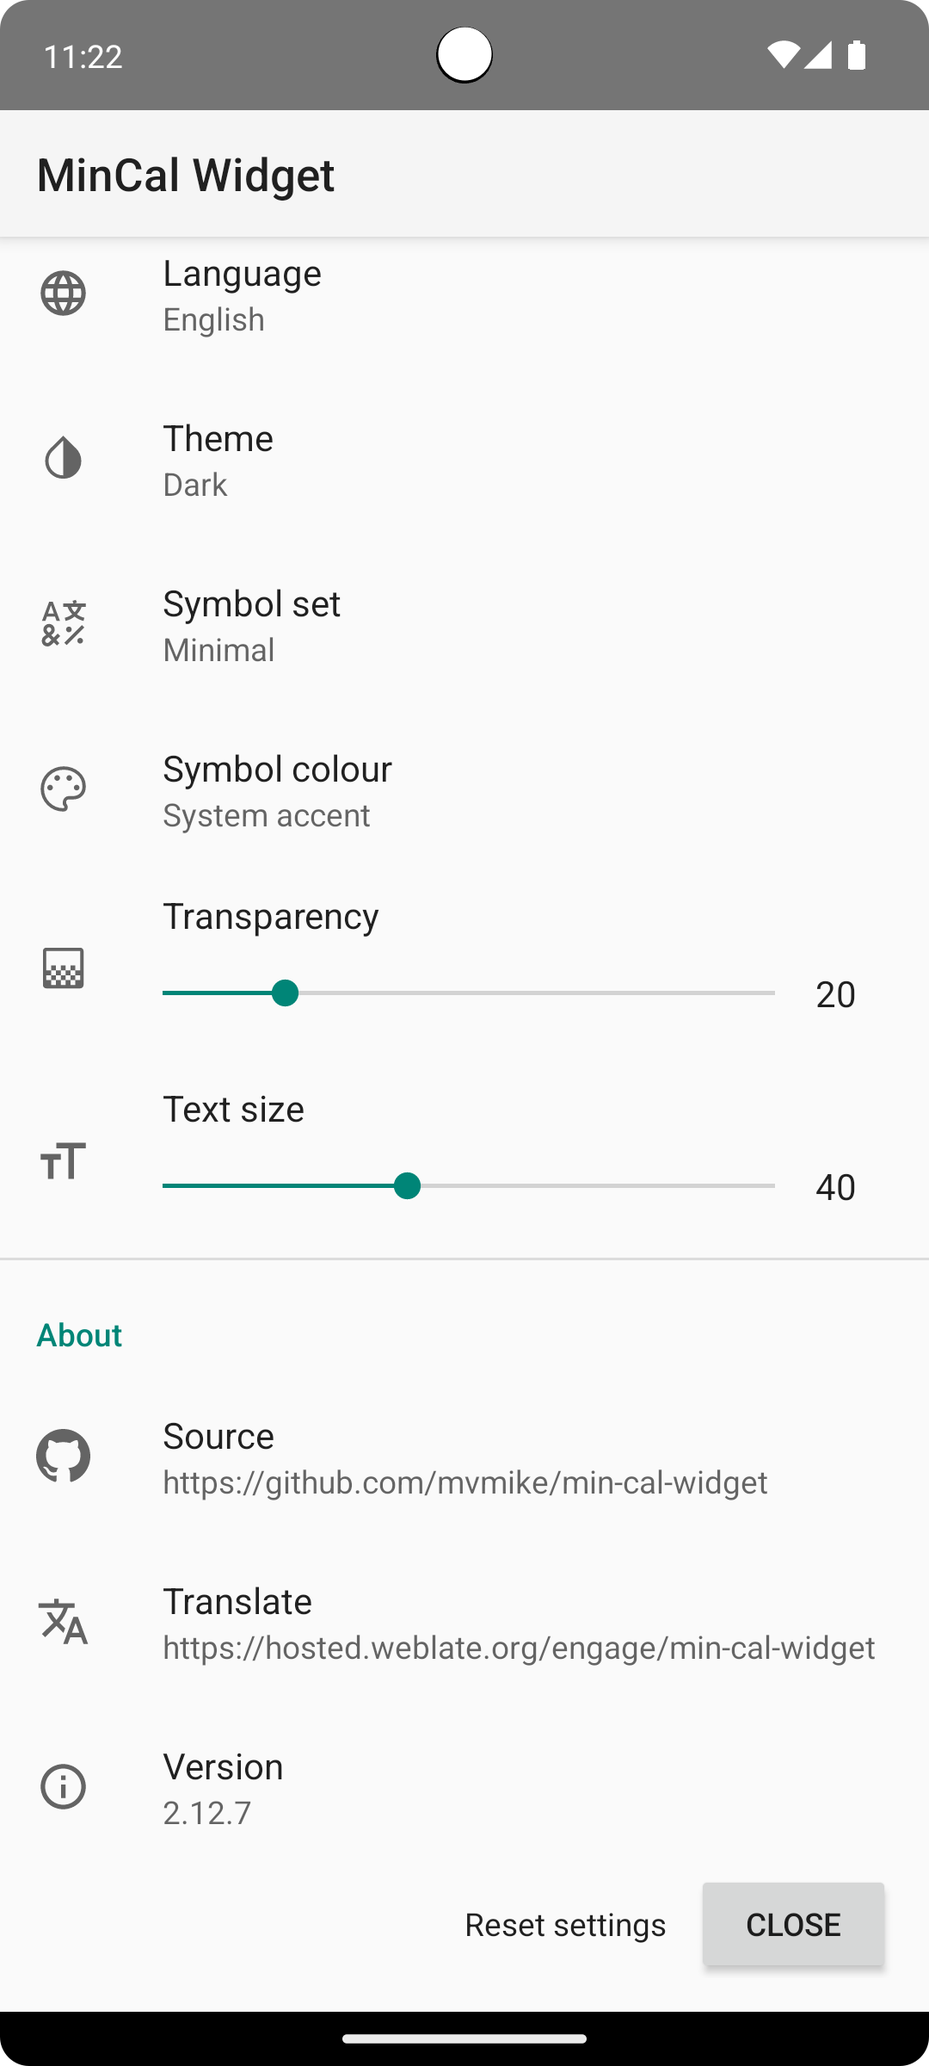
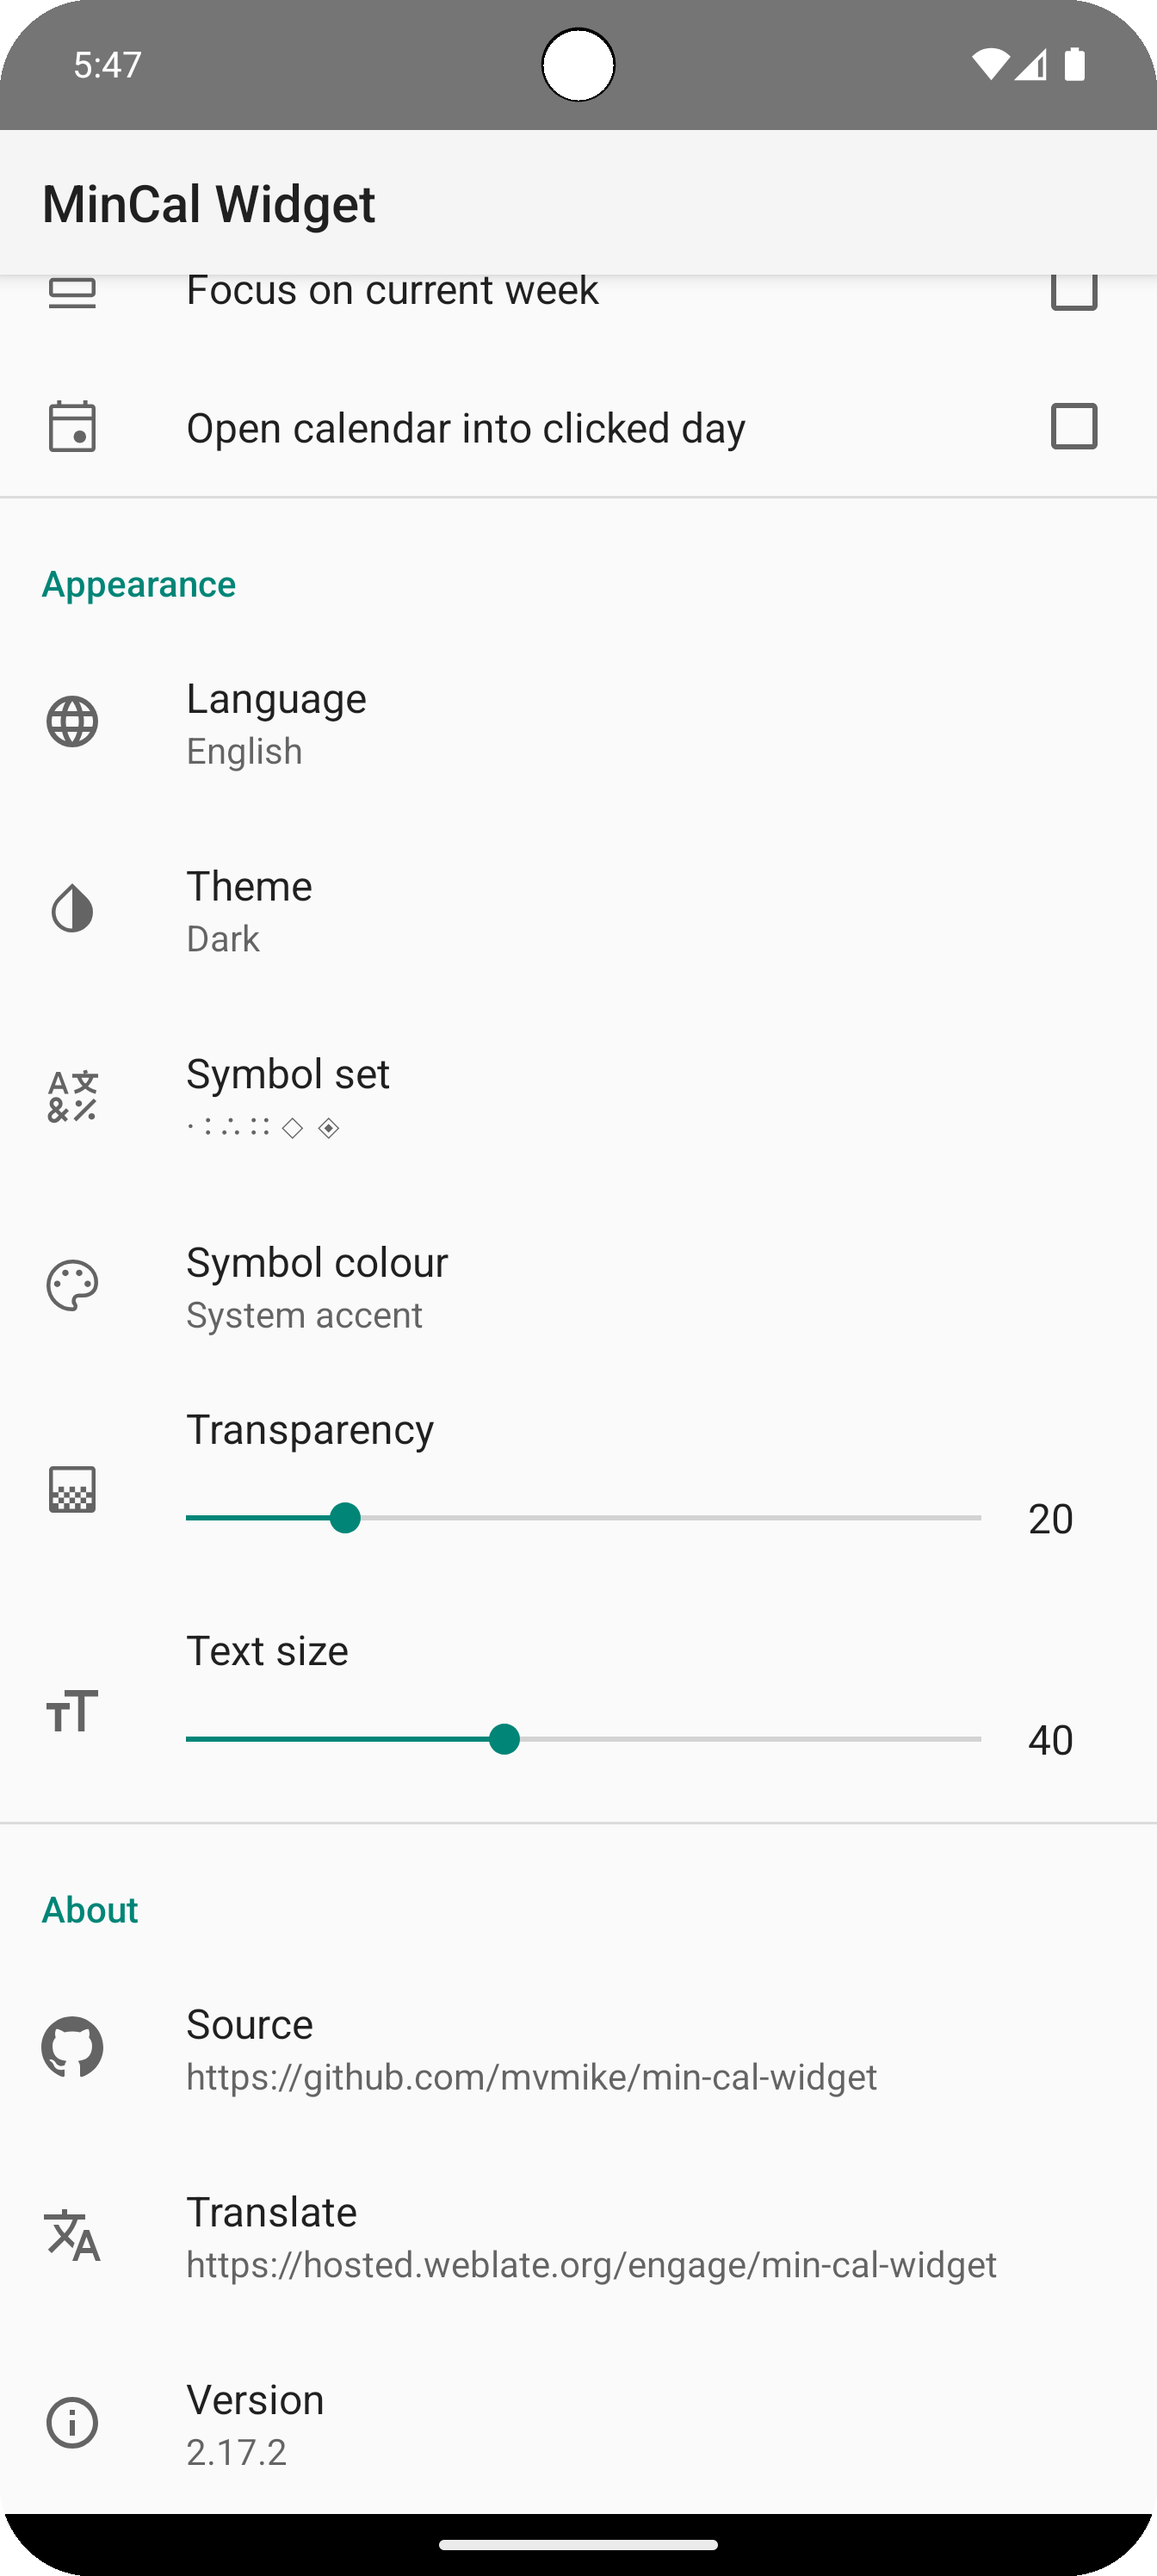
Remove buttons on preferenceScreen

diff --git a/app/src/test/kotlin/cat/mvmike/minimalcalendarwidget/application/RedrawWidgetUseCaseTest.kt b/app/src/test/kotlin/cat/mvmike/minimalcalendarwidget/application/RedrawWidgetUseCaseTest.kt
@@ -118,7 +118,7 @@ internal class RedrawWidgetUseCaseTest : BaseTest() {
         val packageName = "mincalWidget"
         every { context.packageName } returns packageName
         mockkConstructor(RemoteViews::class)
-        justRun { constructedWith<RemoteViews>(EqMatcher(packageName), EqMatcher(2131427393)).removeAllViews(any()) }
+        justRun { constructedWith<RemoteViews>(EqMatcher(packageName), EqMatcher(2131427392)).removeAllViews(any()) }
 
         justRun { ActionableView.ConfigurationIcon.addListener(context, any()) }
         justRun { ActionableView.MonthAndYearHeader.addListener(context, any()) }
